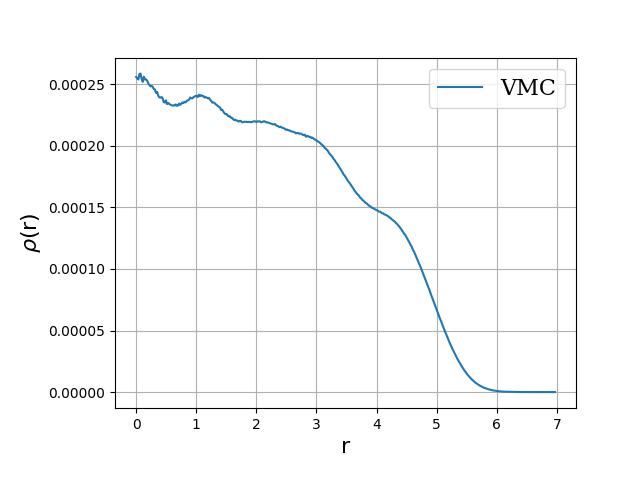
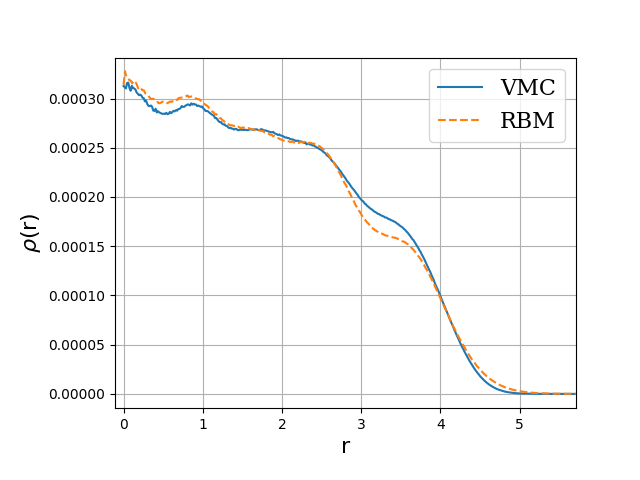
Added better plotting script

diff --git a/scripts/plot_ob2.py b/scripts/plot_ob2.py
@@ -1,61 +1,123 @@
 import numpy as np
 import matplotlib.pyplot as plt
-from mpl_toolkits.mplot3d import Axes3D
+import matplotlib.ticker as ticker
+from mpl_toolkits.mplot3d import axes3d
 from matplotlib import cm 
 from matplotlib.ticker import LinearLocator, FormatStrFormatter
 
-def prepare_data(fileName="../data/test.dat"):
-    data = np.loadtxt(fileName)
-    data /= data.sum()
-    return np.where(data > 0.00002, 0, data)
+class PlotOB():
+
+    def __init__(self, fileName, radius):
+        self.data = np.loadtxt(fileName)
+        self.radius = radius
     
-def plot_heatmap(data, radius=5):
-    plt.figure()
-    plt.imshow(data, cmap=plt.cm.jet, extent=[-radius,radius,-radius,radius])
-    plt.colorbar()
-    plt.show()
-    
-def plot_3D(data, radius=5):
-    x = y = np.linspace(-radius, radius, 3000)
-    xx, yy = np.meshgrid(x, y, sparse=True)
+    def norm(self, numberOfParticles):
+        self.data = numberOfParticles * self.data/self.data.sum()
+        
+    def cut(self, threshold=0.00001):
+        self.data = np.where(self.data > threshold, 0, self.data)
+        
+    def crop(self, newRadius):
+        length = len(self.data)
+        newLength = length * (newRadius / self.radius)
+        
+        start = int(length/2-newLength/2)
+        stop = int(length/2+newLength/2)
+        
+        self.data = self.data[start:stop, start:stop]
+        self.radius = newRadius
+        
+    def plot_heatmap(self):
+        plt.figure()
+        plt.imshow(self.data, cmap=plt.cm.jet, extent=[-self.radius,self.radius,
+                                                       -self.radius,self.radius])
+        plt.colorbar()
+        plt.show()
+        
+    def plot_3D(self):
+        x = y = np.linspace(-self.radius, self.radius, len(self.data))
+        xx, yy = np.meshgrid(x, y, sparse=True)
 
-    fig = plt.figure() 
-    ax = fig.gca(projection='3d')
+        fig = plt.figure() 
+        ax = fig.gca(projection='3d')
 
-    #Plot the surface. 
-    surf = ax.plot_surface(xx,yy,data,cmap=cm.coolwarm,linewidth=0,antialiased=False)
+        #Plot the surface. 
+        surf = ax.plot_surface(xx, yy, self.data, cmap=cm.coolwarm, linewidth=0, antialiased=False)
 
-    #Customize the z axis. 
-    #ax.set_zlim(-0.10,1.40)
-    ax.zaxis.set_major_locator(LinearLocator(10))
-    ax.zaxis.set_major_formatter(FormatStrFormatter('%.02f'))
-    ax.set_xlabel('X axis')
-    ax.set_ylabel('Y axis')
-    ax.set_zlabel('Z axis')
+        #Customize the z axis. 
+        #ax.set_zlim(-0.10,1.40)
+        ax.zaxis.set_major_locator(LinearLocator(10))
+        ax.zaxis.set_major_formatter(FormatStrFormatter('%.02f'))
+        ax.set_xlabel('X axis')
+        ax.set_ylabel('Y axis')
+        ax.set_zlabel('Z axis')
 
-    #Add a color bar which maps values to colors. 
-    fig.colorbar(surf, shrink=0.5, aspect=5)
-    plt.show()
-    
-def plot_radial(data, radius=5):
-    numberOfPoints = len(data)
-    radiii = np.zeros(int(numberOfPoints/2))
-    binshit = radiii.copy()
-    for i in range(numberOfPoints):
-        for j in range(numberOfPoints):
-            radii = int(np.sqrt((i-numberOfPoints/2-1)**2 + (j-numberOfPoints/2-1)**2))
-            if radii < numberOfPoints/2:
-                binshit[radii] += 1.
-                radiii[radii] += data[i, j]
-                
-    plt.figure()
-    x = np.linspace(0,radius,numberOfPoints/2)
-    plt.plot(x, np.divide(radiii, binshit))
-    plt.show()
+        #Add a color bar which maps values to colors. 
+        fig.colorbar(surf, shrink=0.5, aspect=5)
+        plt.show()
+        
+    def plot_radial(self):
+        numberOfPoints = len(self.data)
+        
+        radiii = np.zeros(int(numberOfPoints/2))
+        binshit = radiii.copy()
+        for i in range(numberOfPoints):
+            for j in range(numberOfPoints):
+                radii = int(np.sqrt((i-numberOfPoints/2-1)**2 + (j-numberOfPoints/2-1)**2))
+                if radii < numberOfPoints/2:
+                    binshit[radii] += 1.
+                    radiii[radii] += data[i, j]
+                    
+        plt.figure()
+        x = np.linspace(0,self.radius,numberOfPoints/2)
+        plt.plot(x, np.divide(radiii, binshit))
+        plt.show()
+        
+    def fmt(self, x, pos):
+        a, b = '{:.1e}'.format(x).split('e')
+        b = int(b)
+        return r'${} \times 10^{{{}}}$'.format(a, b)
+        
+    def plot_3Dcontour(self):
+        size = 16
+        label_size = {"size":str(size)}
+        plt.rcParams["font.family"] = "Serif"
+        plt.rcParams['mathtext.default'] = 'regular'
+        #plt.rcParams.update({'figure.autolayout': True})
+
+        fig = plt.figure()
+        ax = fig.gca(projection='3d')
+        
+        maximum = np.max(self.data)
+        x = y = np.linspace(-self.radius, self.radius, len(self.data))
+        xx, yy = np.meshgrid(x, y)
+
+        ax.plot_surface(xx, yy, self.data, rstride=8, cstride=8, alpha=0.5)
+
+        cset = ax.contourf(xx, yy, self.data, zdir='z', offset=-maximum, cmap=cm.jet)
+        cset = ax.contourf(xx, yy, self.data, zdir='x', offset=-self.radius, cmap=cm.coolwarm)
+        cset = ax.contourf(xx, yy, self.data, zdir='y', offset=self.radius, cmap=cm.coolwarm)
+
+        ax.set_xlim(-self.radius, self.radius)
+        ax.set_ylim(-self.radius, self.radius)
+        ax.set_zlim(-maximum, maximum)
+
+        ax.set_xlabel('$x$', labelpad=10, **label_size)
+        ax.set_ylabel('$y$', labelpad=10, **label_size)
+        ax.set_zlabel(r'$\rho$(x,y)', labelpad=30, **label_size)
+        
+        ax.set_xticks([-3,-2,-1, 0, 1, 2, 3])
+        ax.set_yticks([-3,-2,-1, 0, 1, 2, 3])
+        ax.zaxis.set_major_formatter(ticker.FuncFormatter(self.fmt))
+        ax.zaxis.set_tick_params(pad=15)
+        
+        plt.tight_layout(rect=[-0.1, 0, 0.91, 1.06])
+        plt.show()
 
 if __name__ == "__main__":
-    radius = 10
 
-    data = prepare_data("../data/int1/quantumdot/onebody2/VMC/2D/2P/1.000000w/ADAM_MC262144.dat")
-    plot_heatmap(data, radius)
-    plot_radial(data, radius)
+    QD = PlotOB("../data/int1/quantumdot/onebody2/VMC/2D/2P/1.000000w/ADAM_MC262144.dat", 5)
+    QD.norm(2)
+    QD.cut(0.000005)
+    QD.crop(3)
+    QD.plot_3Dcontour()

diff --git a/scripts/plot_ob_density.py b/scripts/plot_ob_density.py
@@ -19,14 +19,14 @@ def exact(r1, w):
     '''Exact solution without interaction for given w'''
     return (2*r1+1)*np.exp(- w * r1**2)
 
-files = ["../data/int1/onebody/VMC/2D/20P/0.280000w/ADAM_MC1048576.dat",
-         #"../data/int1/onebody/RBM/2D/20P/0.280000w/ADAM_MC1048576.dat",
-         "../data/int1/onebody/RBMSJ/2D/20P/0.280000w/ADAM_MC1048576.dat",
+files = ["../data/int1/quantumdot/onebody/VMC/2D/90P/1.000000w/ADAM_MC1048576.dat",
+         "../data/int1/quantumdot/onebody/RBM/2D/90P/1.000000w/ADAM_MC1048576.dat",
+         #"../data/int1/onebody/RBMSJ/2D/20P/0.280000w/ADAM_MC1048576.dat",
          #"../data/int1/onebody/RBMPJ/2D/20P/0.280000w/ADAM_MC1048576.dat",
          ]
          
 label = ["VMC",
-         #"RBM",
+         "RBM",
          "RBM+SJ",
          "RBM+PJ"
          ]
@@ -37,8 +37,8 @@ line_style = ["-",
               ":"
               ]
          
-maxRadius = [30,
-             30,
+maxRadius = [45,
+             55,
              30,
              30
              ]
